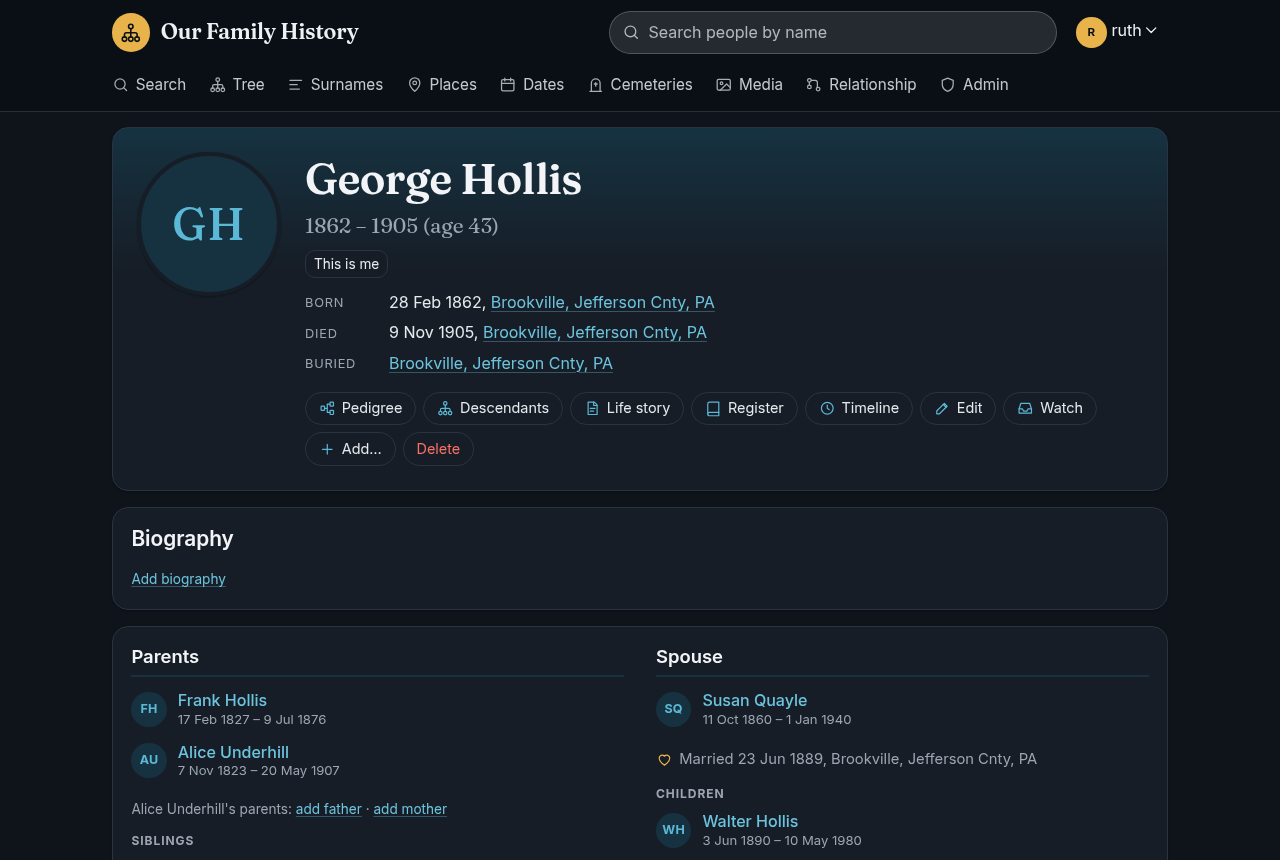
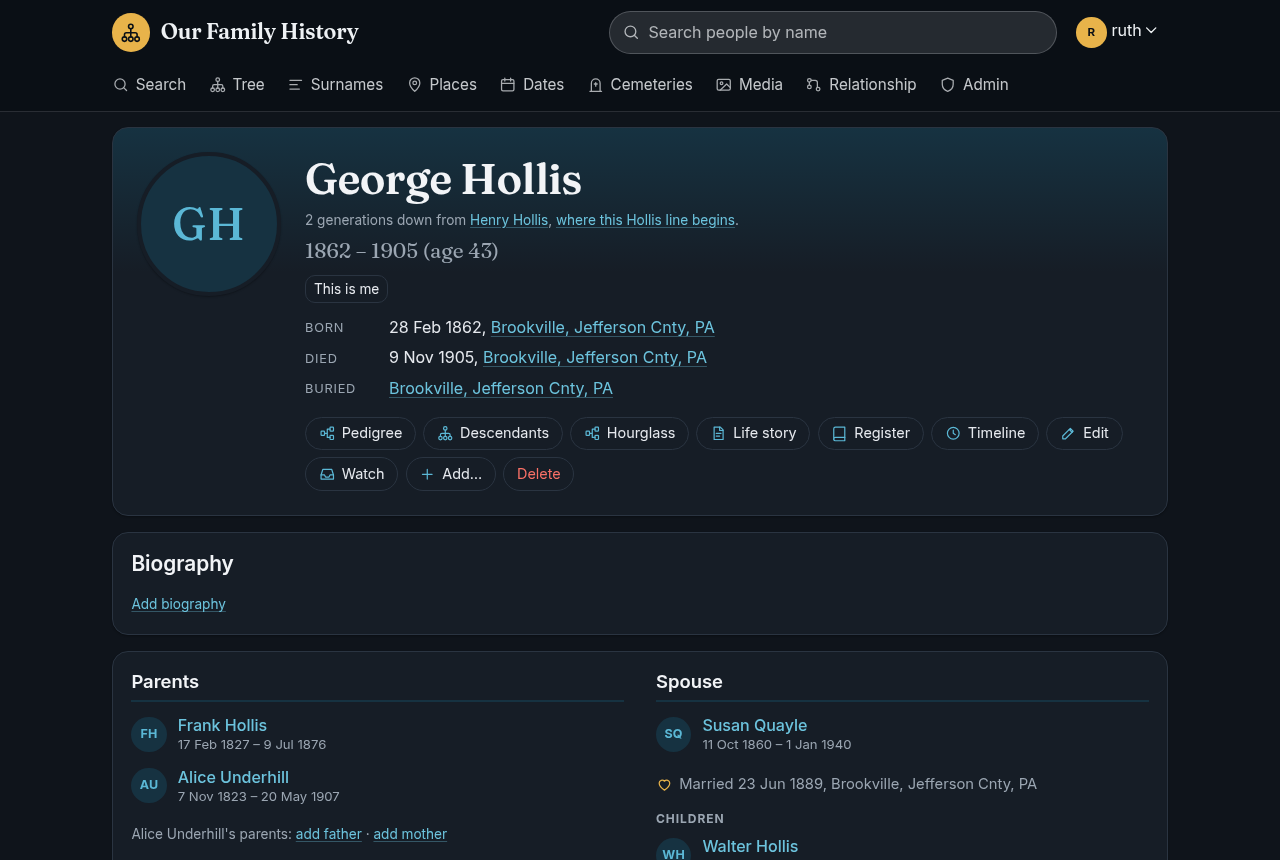
Kith 0.2.0: fresh screenshots, hourglass and census added
Version 0.2.0 with the changelog dated. Screenshots retaken from the sample family (person, dark, phone, chart,
home, welcome) plus the hourglass and a census year. The version test reads pyproject, so a release edits one file.

diff --git a/tests/test_home.py b/tests/test_home.py
@@ -1,6 +1,7 @@
 import datetime
 import html as htmllib
 import subprocess
+import tomllib
 
 import pytest
 from flask import g
@@ -248,13 +249,14 @@ def test_public_welcome_page(app, plain_app):
 
 
 def test_version(monkeypatch):
-    assert kith.version().startswith("0.1.0 (")  # a git checkout: the commit too
+    v = tomllib.loads((kith.ROOT / "pyproject.toml").read_text())["project"]["version"]  # so a release edits one file
+    assert kith.version().startswith(f"{v} (")  # a git checkout: the commit too
     monkeypatch.setattr(subprocess, "run", lambda *a, **k: subprocess.CompletedProcess(a, 128, "", "not a repo"))
-    assert kith.version() == "0.1.0"  # a tarball or Docker copy
+    assert kith.version() == v  # a tarball or Docker copy
     def missing(*a, **k):
         raise FileNotFoundError("git")
     monkeypatch.setattr(subprocess, "run", missing)
-    assert kith.version() == "0.1.0"  # no git installed
+    assert kith.version() == v  # no git installed
 
 
 def test_public_page_contact_and_defaults(tmp_path, monkeypatch):

diff --git a/app/__init__.py b/app/__init__.py
@@ -23,7 +23,7 @@ def env(name, default=None):
 
 
 def version():
-    """For the footer: pyproject's version, plus the commit when the code is a git checkout, e.g. "0.1.0 (34f4426)"."""
+    """For the footer: pyproject's version, plus the commit when the code is a git checkout, e.g. "0.2.0 (34f4426)"."""
     v = tomllib.loads((ROOT / "pyproject.toml").read_text())["project"]["version"]
     try:  # safe.directory: the checkout is owned by root but the site runs as its own user
         commit = subprocess.run(["git", "-C", str(ROOT), "-c", "safe.directory=*", "rev-parse", "--short", "HEAD"],

diff --git a/README.md b/README.md
@@ -16,6 +16,7 @@ line.
 |---|---|
 | ![Descendants chart](docs/screenshots/chart.png) | ![Home page](docs/screenshots/home.png) |
 | ![Dark theme](docs/screenshots/person-dark.png) | ![Welcome page before logging in](docs/screenshots/welcome.png) |
+| ![Hourglass chart: parents above, children below](docs/screenshots/hourglass.png) | ![Census by year: households by place](docs/screenshots/census.png) |
 
 <img src="docs/screenshots/person-phone.png" alt="A person's page on a phone" width="260">
 

diff --git a/CHANGELOG.md b/CHANGELOG.md
@@ -4,6 +4,8 @@ Kith follows semantic versioning. Releases are on GitHub.
 
 ## Unreleased
 
+## 0.2.0 (2026-11-03)
+
 - Census by year (`/census`): each census year's households, by place, linked from Places.
 - Census matches (Admin > Tidy the tree): suggests which person in the tree each name typed in a census
   transcription is, for an editor to confirm; a confirmed person gets that census on their page, and a birth year
